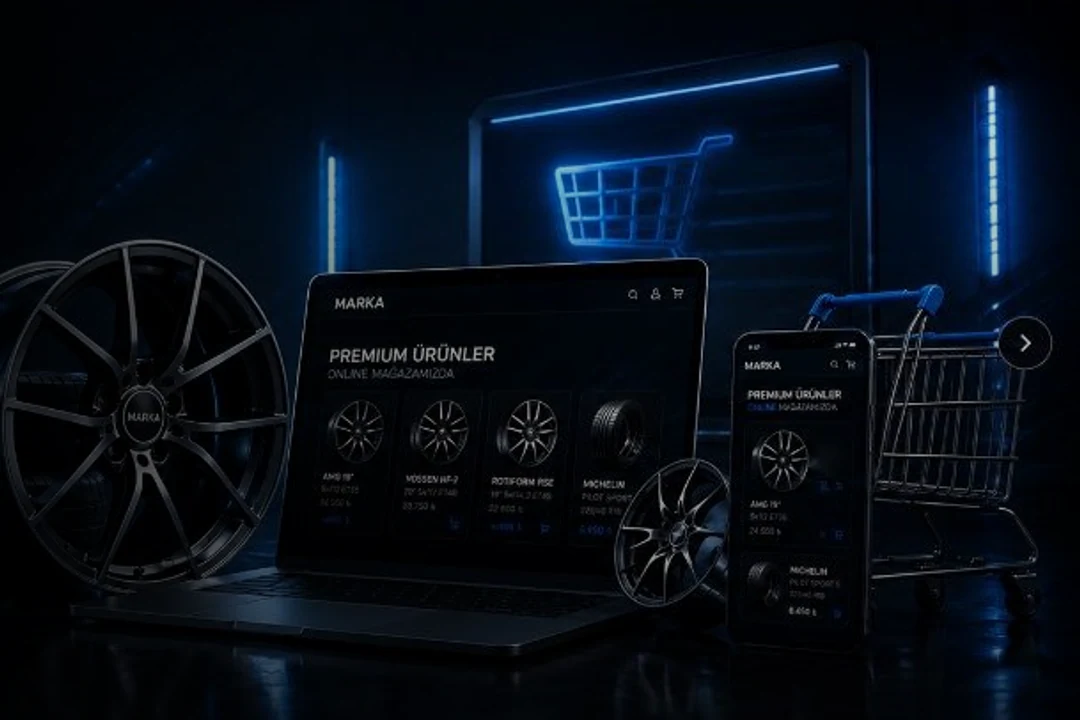
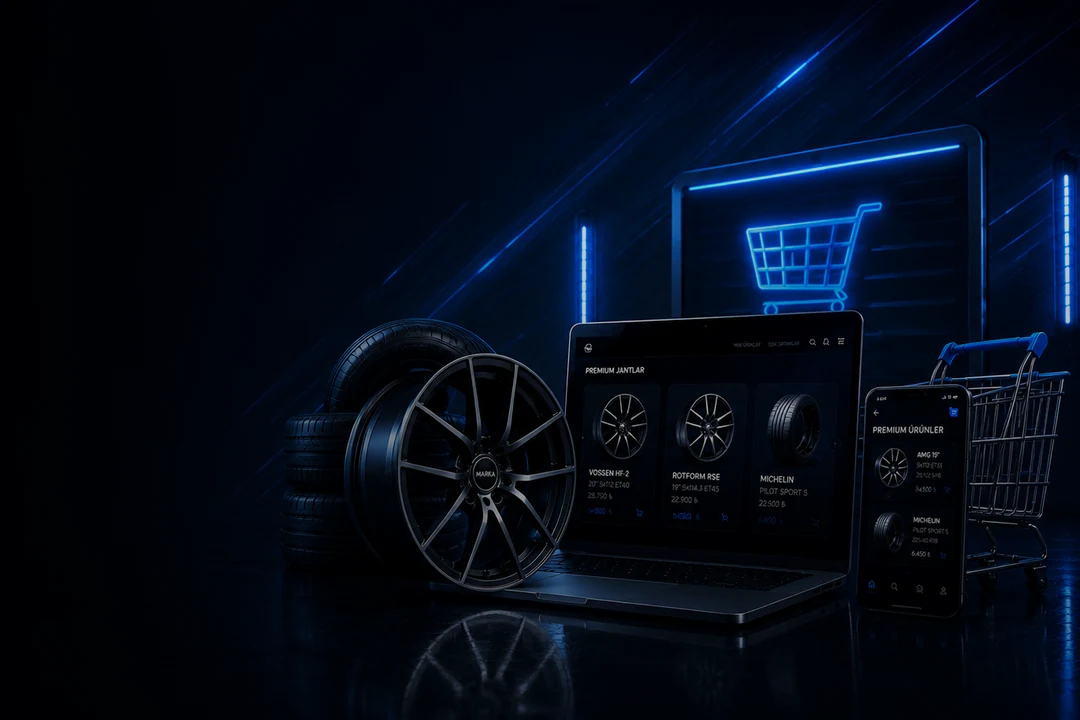
anasayfagüncelleme

diff --git a/scripts/generate-hero-online-satis-banner.js b/scripts/generate-hero-online-satis-banner.js
@@ -1,5 +1,5 @@
 /**
- * Online Satış hero banner — referans görselin sağ kompozisyonundan üretir
+ * Online Satış hero banner — hero-online-satis-ref.png
  * Run: node scripts/generate-hero-online-satis-banner.js
  */
 "use strict";
@@ -9,17 +9,9 @@ const path = require("path");
 const sharp = require("sharp");
 
 const ROOT = path.join(__dirname, "..");
-const REF = path.join(
-  ROOT,
-  "assets",
-  "images",
-  "hero",
-  "hero-online-satis-ref.jpg"
-);
+const REF = path.join(ROOT, "assets", "images", "hero", "hero-online-satis-ref.png");
 const OUT_DESKTOP = path.join(ROOT, "assets", "images", "hero", "hero-sahibinden-banner.webp");
 const OUT_MOBILE = path.join(ROOT, "assets", "images", "hero", "hero-sahibinden-banner-mobile.webp");
-
-const LEFT_CUT = 0.405;
 
 function coverCropRect(w, h, tw, th, fx, fy) {
   const targetAspect = tw / th;
@@ -41,30 +33,34 @@ function coverCropRect(w, h, tw, th, fx, fy) {
   return { left, top, width: cropW, height: cropH };
 }
 
-async function processHero(buf, tw, th, focus) {
-  const meta = await sharp(buf).metadata();
-  const w = meta.width;
-  const h = meta.height;
+async function processHero(buf, options) {
+  const tw = options.width;
+  const th = options.height;
+  const focus = options.focus;
+  const leftCut = options.leftCut || 0;
 
-  const cropLeft = Math.round(w * LEFT_CUT);
-  const rightBuf = await sharp(buf)
-    .extract({ left: cropLeft, top: 0, width: w - cropLeft, height: h })
+  const meta = await sharp(buf).metadata();
+  const cropLeft = Math.round(meta.width * leftCut);
+  const sliceW = meta.width - cropLeft;
+
+  const sliced = await sharp(buf)
+    .extract({ left: cropLeft, top: 0, width: sliceW, height: meta.height })
     .toBuffer();
 
-  const rm = await sharp(rightBuf).metadata();
-  const region = coverCropRect(rm.width, rm.height, tw, th, focus[0], focus[1]);
+  const sm = await sharp(sliced).metadata();
+  const region = coverCropRect(sm.width, sm.height, tw, th, focus[0], focus[1]);
 
   const overlay = Buffer.from(
     `<svg width="${tw}" height="${th}" xmlns="http://www.w3.org/2000/svg">
       <defs>
         <linearGradient id="l" x1="0" y1="0" x2="1" y2="0">
-          <stop offset="0%" stop-color="#06080f" stop-opacity="0.72"/>
-          <stop offset="28%" stop-color="#080a12" stop-opacity="0.28"/>
-          <stop offset="55%" stop-color="#080a12" stop-opacity="0"/>
+          <stop offset="0%" stop-color="#06080f" stop-opacity="0.78"/>
+          <stop offset="24%" stop-color="#080a12" stop-opacity="0.32"/>
+          <stop offset="52%" stop-color="#080a12" stop-opacity="0"/>
         </linearGradient>
         <linearGradient id="b" x1="0" y1="0" x2="0" y2="1">
           <stop offset="0%" stop-color="#06080f" stop-opacity="0"/>
-          <stop offset="100%" stop-color="#090909" stop-opacity="0.42"/>
+          <stop offset="100%" stop-color="#090909" stop-opacity="0.4"/>
         </linearGradient>
       </defs>
       <rect width="100%" height="100%" fill="url(#l)"/>
@@ -72,7 +68,7 @@ async function processHero(buf, tw, th, focus) {
     </svg>`
   );
 
-  return sharp(rightBuf)
+  return sharp(sliced)
     .extract(region)
     .resize(tw, th)
     .modulate({ brightness: 0.92, saturation: 0.95 })
@@ -88,13 +84,26 @@ async function main() {
   }
 
   const ref = fs.readFileSync(REF);
+  const meta = await sharp(ref).metadata();
 
-  const desktop = await processHero(ref, 1920, 1080, [0.52, 0.5]);
+  const desktop = await processHero(ref, {
+    width: 1920,
+    height: 1080,
+    leftCut: 0,
+    focus: [0.58, 0.5],
+  });
+
+  const mobile = await processHero(ref, {
+    width: 1080,
+    height: 720,
+    leftCut: 0.18,
+    focus: [0.5, 0.52],
+  });
+
   fs.writeFileSync(OUT_DESKTOP, desktop);
-
-  const mobile = await processHero(ref, 1080, 720, [0.56, 0.52]);
   fs.writeFileSync(OUT_MOBILE, mobile);
 
+  console.log("Source:", path.relative(ROOT, REF), meta.width + "x" + meta.height);
   console.log("Written:", path.relative(ROOT, OUT_DESKTOP), "(" + desktop.length + " bytes)");
   console.log("Written:", path.relative(ROOT, OUT_MOBILE), "(" + mobile.length + " bytes)");
 }

diff --git a/assets/css/hero-slider.css b/assets/css/hero-slider.css
@@ -71,9 +71,9 @@
 }
 
 .hero__bg-slide--2 {
-  --hero-pos-desktop: center center;
-  --hero-pos-tablet: center center;
-  --hero-pos-mobile: 54% 50%;
+  --hero-pos-desktop: 58% center;
+  --hero-pos-tablet: 56% center;
+  --hero-pos-mobile: 52% 50%;
 }
 
 .hero__bg-slide--3 {
